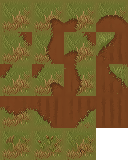
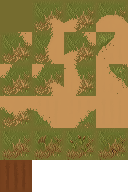
Flat green grass with 40% variants, tan untilled field, brown watered overlay
Claude-Session: https://claude.ai/code/session_01DZoCGNTKvTqdtWPybs567b

diff --git a/tools/art/art.py b/tools/art/art.py
@@ -412,6 +412,7 @@ def _corner_index(corners: dict) -> int:
 
 
 def cmd_tile_import(args) -> None:
+    """Atlas rows 0-3: lower ↔ untilled field Wang tiles (index 0 is flat lower colour); row 4: variants; row 5: the tilled tile."""
     spec = load_json(ART / "tiles.json")[args.name]
     generated = load_json(ART / "generated.json")
     record = record_for(generated, "tilesets", args.name)
@@ -419,15 +420,24 @@ def cmd_tile_import(args) -> None:
     size = spec.get("tile_size", 16)
     for season, sspec in _season_specs(spec, None).items():
         tiles, variants = tiles_post.finish(*_load_tiles(_tile_folder(args.name, season)), sspec)
-        rows = 4 + (len(variants) + 3) // 4
+        lower, upper = tiles_post.mean_colour(tiles[0]), tiles_post.mean_colour(tiles[15])
+        lower_target = tiles_post.hex_colour(sspec["lower_colour"]) if sspec.get("lower_colour") else lower
+        field = tiles_post.recolour(tiles, lower, upper, lower_target, tiles_post.hex_colour(sspec["field_colour"]), sspec.get("field_flatten", 0.0))
+        variants = [tiles_post.recolour({0: t}, lower, upper, lower_target, None)[0] for t in [tiles[0]] + variants]
+        field[0] = tiles_post.flat_tile(lower_target, size)
+        tilled = tiles_post.recolour({15: tiles[15]}, lower, upper, None, None)[15]
+        rows = 5 + (len(variants) + 3) // 4
         atlas = Image.new("RGBA", (4 * size, rows * size), (0, 0, 0, 0))
         terrain = {}
-        for index, tile in tiles.items():
+        for index, tile in field.items():
             atlas.alpha_composite(tile, ((index % 4) * size, (index // 4) * size))
             terrain[(index % 4, index // 4)] = {key: (index >> (3 - i)) & 1 for i, key in enumerate(("NW", "NE", "SW", "SE"))}
         for i, tile in enumerate(variants):
             atlas.alpha_composite(tile, ((i % 4) * size, (4 + i // 4) * size))
             terrain[(i % 4, 4 + i // 4)] = {key: 0 for key in ("NW", "NE", "SW", "SE")}
+        tilled_row = 4 + (len(variants) + 3) // 4
+        atlas.alpha_composite(tilled, (0, tilled_row * size))
+        terrain[(0, tilled_row)] = {key: 1 for key in ("NW", "NE", "SW", "SE")}
         out_png = ROOT / "assets" / "tiles" / (f"{args.name}_{season}.png" if season else f"{args.name}.png")
         out_png.parent.mkdir(parents=True, exist_ok=True)
         atlas.save(out_png)

diff --git a/tools/art/tiles_post.py b/tools/art/tiles_post.py
@@ -63,3 +63,27 @@ def demo_field(tiles: dict, variants: list, size: int, seed: int = 3) -> Image.I
             tile = rng.choice(variants) if idx == 0 and variants and rng.random() < 0.35 else tiles[idx]
             img.alpha_composite(tile, (x * size, y * size))
     return img
+
+
+def hex_colour(text: str) -> np.ndarray:
+    return np.array([int(text[i:i + 2], 16) for i in (1, 3, 5)], dtype=float)
+
+
+def recolour(tiles: dict, lower: np.ndarray, upper: np.ndarray, lower_target: np.ndarray | None, upper_target: np.ndarray | None, flatten: float = 0.0) -> dict:
+    """Shift each terrain's pixels so their mean lands on the target colour, optionally flattening the upper terrain first."""
+    out = {}
+    for key, im in tiles.items():
+        a = np.asarray(im.convert("RGBA")).astype(float)
+        rgb = a[..., :3]
+        is_lower = _classify(rgb, lower, upper)[..., None]
+        lower_rgb = rgb + (lower_target - lower) if lower_target is not None else rgb
+        upper_rgb = rgb * (1 - flatten) + upper * flatten
+        if upper_target is not None:
+            upper_rgb = upper_rgb + (upper_target - upper)
+        a[..., :3] = np.clip(np.where(is_lower, lower_rgb, upper_rgb), 0, 255)
+        out[key] = Image.fromarray(a.round().astype(np.uint8), "RGBA")
+    return out
+
+
+def flat_tile(colour: np.ndarray, size: int) -> Image.Image:
+    return Image.new("RGBA", (size, size), tuple(int(v) for v in colour) + (255,))

diff --git a/tools/art/README.md b/tools/art/README.md
@@ -29,7 +29,7 @@ Declare the character in `bodies.json` (prompt, canvas size as one number or `[w
 
 ## Tiles
 
-Declare the terrain pair in `tiles.json`: prompts, `tile_size`, `seed`, PixelLab `params` (use `"mode": "pro"`; the standard mode gives flat grass and gridded soil), `edge_blend` (pixels faded toward the flat terrain colour at every tile edge, which is what hides seams) and `soften_upper` (pulls the upper terrain toward its mean so furrows stay faint). `seasons` overrides the lower prompt per season and lists `variants`: prompts painted into the centre of the plain lower tile with a round mask, seen inside a 3×3 tiling so they stay seamless. Then `art.py tile-design <name> [--season s] [--variants-only]` (one generation per tileset and per variant; the preview stacks a sample field per season), approval as above, and `art.py tile-import <name>`, which writes `assets/tiles/<name>_<season>.png` (4×4 Wang atlas ordered by corner mask NW NE SW SE, upper terrain = 1, variants on row 4) and a `.tres` TileSet with a Match Corners terrain set. `scripts/farm/farm.gd` paints the terrains, swaps the season's TileSet, and scatters variants on cells with no soil neighbour.
+Declare the terrain pair in `tiles.json`: prompts, `tile_size`, `seed`, PixelLab `params` (use `"mode": "pro"`; the standard mode gives flat grass and gridded soil), `edge_blend` (pixels faded toward the flat terrain colour at every tile edge, which is what hides seams) and `soften_upper` (pulls the upper terrain toward its mean so furrows stay faint). `seasons` overrides the lower prompt per season and lists `variants`: prompts painted into the centre of the plain lower tile with a round mask, seen inside a 3×3 tiling so they stay seamless. Then `art.py tile-design <name> [--season s] [--variants-only]` (one generation per tileset and per variant; the preview stacks a sample field per season), approval as above, and `art.py tile-import <name>`, which writes `assets/tiles/<name>_<season>.png` and its `.tres`: rows 0-3 are the Wang atlas ordered by corner mask NW NE SW SE with the upper terrain recoloured to `field_colour` (untilled ground) and index 0 replaced by flat `lower_colour`; row 4 holds the textured lower tile and the variants; row 5 the tilled tile in the original upper colours. `scripts/farm/farm.gd` draws the field on a dual grid, swaps the season's TileSet, scatters variants, and overlays tilled and watered cells.
 
 ## Placeholders
 
